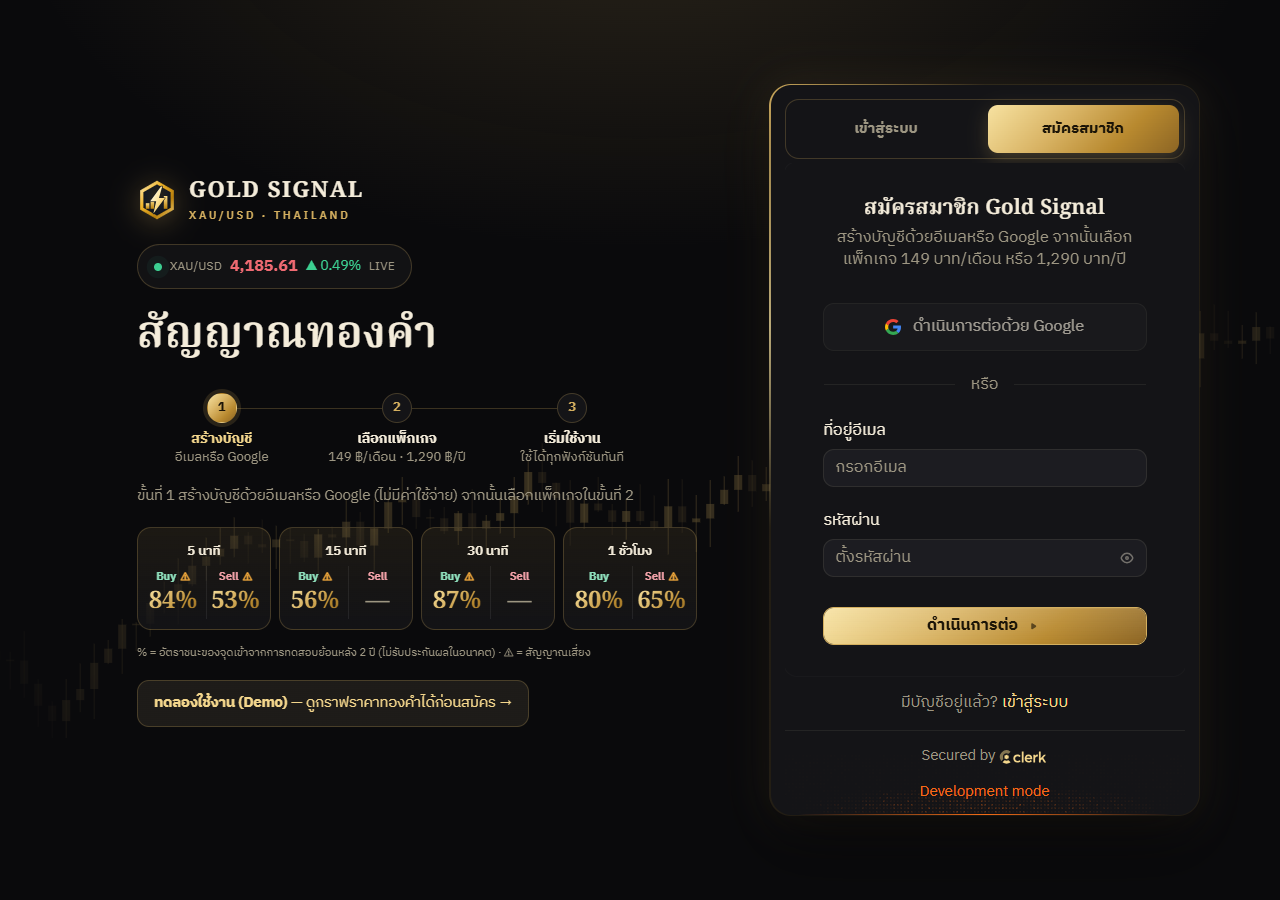
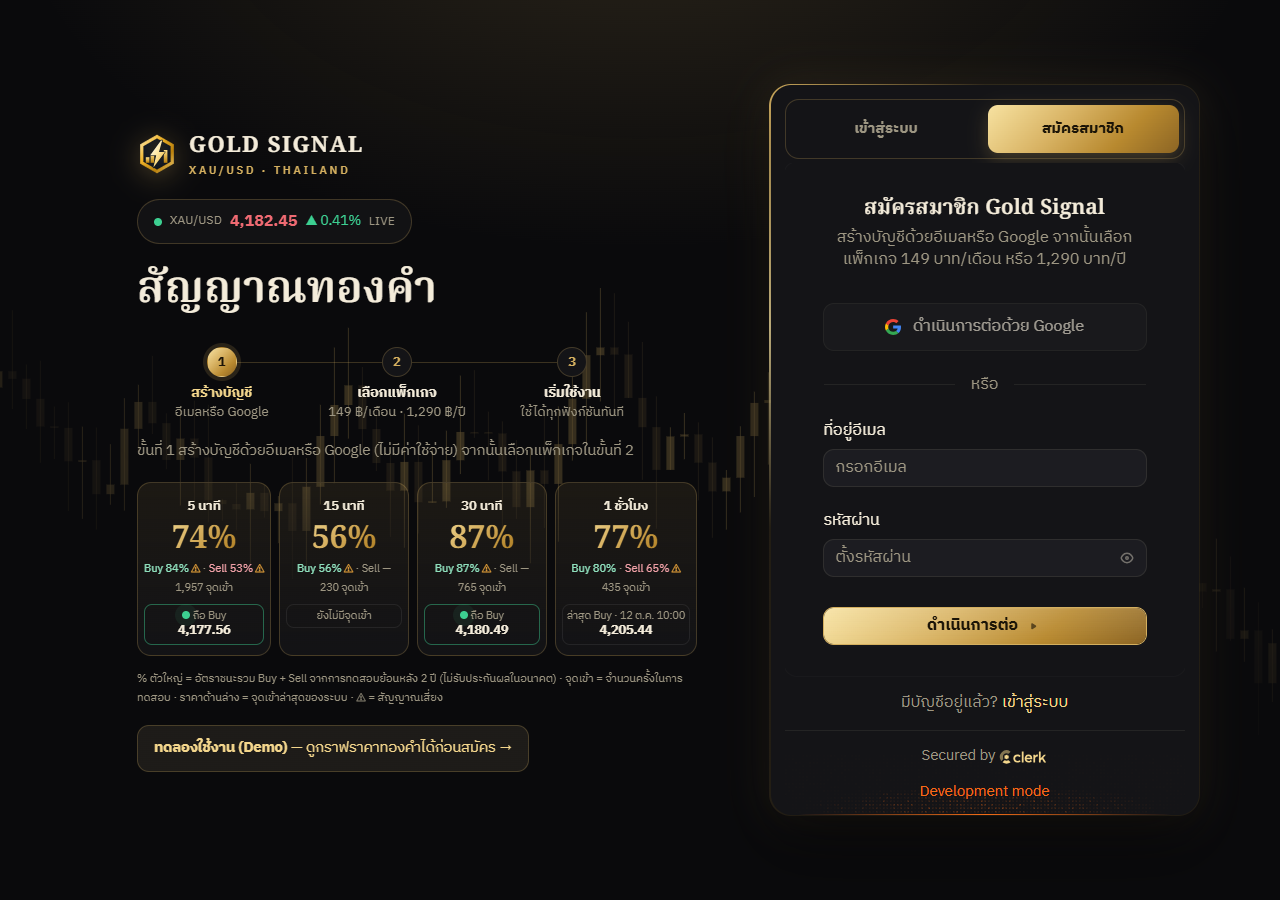
Docs: sign-up tiles with combined % and latest entry

Changed region(s): [[0.0938, 0.1556, 0.5625, 0.84], [0.5625, 0.4356, 0.5938, 0.56]]

diff --git a/Skill.md b/Skill.md
@@ -316,6 +316,12 @@ gh workflow run weekly-summary.yml -R tanakrthum254614-max/gold-signal -f send=t
 
 > จัดเรียงใหม่ 14 ต.ค. 2569: เนื้อหาเดิมครบทุกหัวข้อ แค่เรียงตามวันที่ (ใหม่ → เก่า) · งานใหม่ให้เพิ่มหัวข้อไว้บนสุดของส่วนนี้
 
+## 19 ต.ค. 2569 — 🧮 ช่อง 4 กรอบ: % รวม Buy + Sell + จุดเข้า
+- ผู้ใช้: "แสดงเปอร์เซ็นรวมของบายกับเซลของแต่ละทามเฟรม ขอจุดเข้าในแต่ละช่องด้วย" → ถาม → "ทั้งราคาและจำนวน" + "% แยกเก็บไว้ตัวเล็ก"
+- lib/blog.mjs: `side()` คืน `n` · `tiles[].all = {tested, n}` (% ชนะถ่วงตามจำนวนไม้ทดสอบ Buy/Sell: 5m 74% 1,957 · 15m 56% 230 · 30m 87% 765 · 1h 77% 435) · `tiles[].last` = ไม้ล่าสุดของกรอบใน chart-signals (ข้าม expired/skip) `{side, entry, at, state: wait|open|closed, until}`
+- login.html ช่อง: ชื่อกรอบ · % รวมตัวใหญ่ · "Buy x% · Sell y%" ตัวเล็ก (⚠ ถ้าเสี่ยง, "—" ไม่มีฝั่ง) · "N จุดเข้า" · กล่องจุดเข้าล่าสุด (📥 รอเข้า / ● ถือ ขอบเขียว / "ล่าสุด Buy · วันเวลา" + ราคา, ไม่มี = "ยังไม่มีจุดเข้า") · poll ทุก 60 วิ · หมายเหตุ: ราคาจุดเข้าโชว์บนหน้าสาธารณะ (ผู้ใช้เลือกเอง)
+- ทดสอบ tilelive.mjs คอม + มือถือ ไม่มี error · commit 9f5f853
+
 ## 19 ต.ค. 2569 — ↩ ช่อง 4 กรอบกลับมา: แสดงแค่ % Buy / Sell
 - ผู้ใช้: "เอากลับมาแบบเดิม ให้แสดงแค่เปอร์เซ็นจุดเข้าในการซื้อ ฝั่ง Buy Sell" → คืน login.html จาก 7c8e876^ แล้วตัด: `.rl` (จริง x% / ชนะ W/L), `.hold` + renderHolds (ถือ / รอเข้า), แฟลช · เหลือ ชื่อกรอบ · Buy % · Sell % (⚠ ถ้า risky, "—" ถ้าฝั่งไม่มีจุดเข้า) · คำอธิบาย `.tcap` "% = อัตราชนะของจุดเข้าจากการทดสอบย้อนหลัง 2 ปี (ไม่รับประกันผลในอนาคต) · ⚠ = สัญญาณเสี่ยง" · loadStats ครั้งเดียว (+ ตอนกลับมาที่แท็บ) ไม่ poll 30 วิ
 - ทดสอบ tilelive.mjs (ตัวเลขจริงจาก blogGET: 84/53 · 56/— · 87/— · 80/65) คอม + มือถือ ไม่มี error · commit e551490

diff --git a/README.md b/README.md
@@ -32,7 +32,7 @@
 <td><img src="docs/img/pricing.png" alt="Pricing"><br><sub><b>แพ็กเกจสมาชิก</b> — ชำระผ่าน Stripe (บัตร / PromptPay)</sub></td>
 </tr>
 <tr>
-<td><img src="docs/img/login.png" alt="Sign up"><br><sub><b>การเข้าสู่ระบบและสมัครสมาชิก</b> — จัดวางสองส่วน: ข้อมูลด้านซ้าย แบบฟอร์มด้านขวา พร้อมราคาทองคำแบบเรียลไทม์ อัตราชนะจากการทดสอบย้อนหลังของจุดเข้าฝั่ง Buy และ Sell แต่ละกรอบเวลา ขั้นตอน 3 ขั้น และคำถามที่พบบ่อย</sub></td>
+<td><img src="docs/img/login.png" alt="Sign up"><br><sub><b>การเข้าสู่ระบบและสมัครสมาชิก</b> — จัดวางสองส่วน: ข้อมูลด้านซ้าย แบบฟอร์มด้านขวา พร้อมราคาทองคำแบบเรียลไทม์ อัตราชนะรวมและแยกฝั่ง Buy / Sell จากการทดสอบย้อนหลัง จำนวนจุดเข้า และจุดเข้าล่าสุดของแต่ละกรอบเวลา ขั้นตอน 3 ขั้น และคำถามที่พบบ่อย</sub></td>
 <td><img src="docs/img/marketing.png" alt="Back office"><br><sub><b>ระบบหลังบ้าน</b> — ผู้ช่วยร่างประกาศการตลาดจากข้อมูลจริง</sub></td>
 </tr>
 </table>
